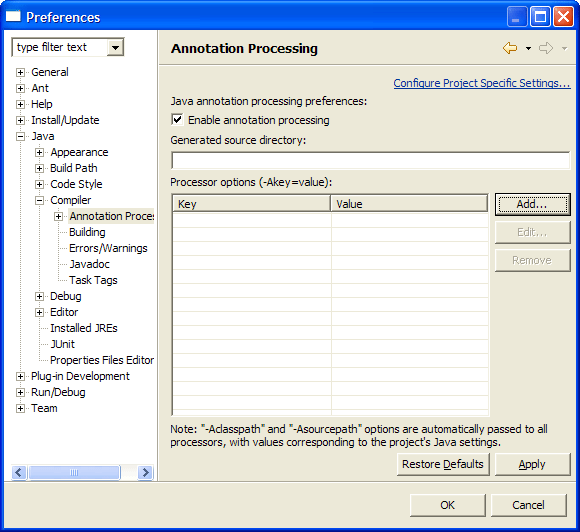
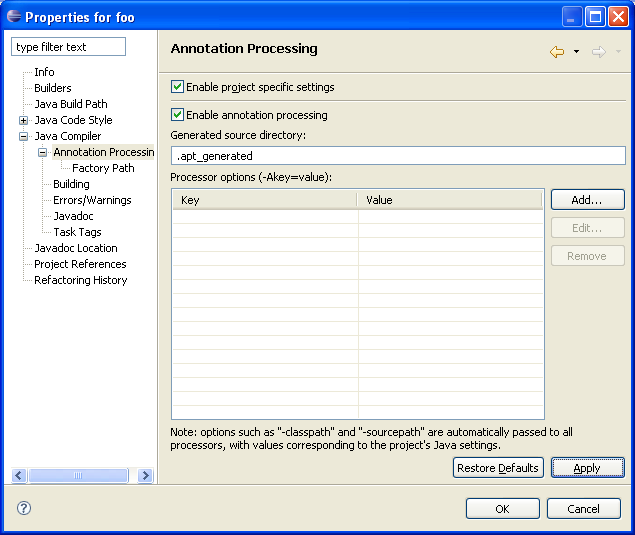
bug 136498: make it easier for users to enable APT via the UI.  Remove workspace pref panes, fix help, automatically check "enable APT".

Changed region(s): [[0.0, 0.0, 1.0, 0.9925], [0.869, 0.0, 1.0, 0.0602]]

diff --git a/bundles/org.eclipse.jdt.doc.user/reference/ref-apt-config.htm b/bundles/org.eclipse.jdt.doc.user/reference/ref-apt-config.htm
@@ -11,11 +11,20 @@
     <h1>
       Annotation Processing
     </h1>
-    <p>Annotation processors can generate additional Java code or other files, and produce problem markers,
+    <p>Annotation processors are utility programs that can generate additional Java code or other files, 
+    and produce problem markers,
     based on Java 5 (JSR-175) annotations.  The Annotation Processing preference pane permits configuration 
     of preferences that apply to all processors in a project or workspace.  The <a href="ref-apt-factoryPath.htm">
     Factory Path preference pane</a> specifies which processors are enabled and permits configuration of 
     individual processors.
+    <h2>
+        Enable annotation processing
+    </h2>
+    <p>Annotation processing is turned off by default, and must be turned on by checking this checkbox
+    for each project that needs it.  It is only necessary to enable annotation processing in a project
+    in order to have annotation processors operate on that project's code.  The mere presence of 
+    annotations in code does not mean that annotation processing is required; for example, the 
+    <code>@Deprecated</code> and <code>@Override</code> annotations do not typically require processing. 
     <h2>
     	Generated source directory
     </h2>

diff --git a/bundles/org.eclipse.jdt.doc.user/reference/ref-apt-factoryPath.htm b/bundles/org.eclipse.jdt.doc.user/reference/ref-apt-factoryPath.htm
@@ -15,7 +15,8 @@
     based on Java 5 (JSR-175) annotations.  The <a href="ref-apt-config.htm">Annotation Processing preference
     pane</a> permits configuration of preferences that apply to all processors in a project or workspace.  
     The Factory Path preference pane specifies which processors are enabled and permits configuration of 
-    individual processors.
+    individual processors. <i>Settings in the Factory Path preference pane will only have an effect if
+    annotation processing is enabled in the Annotation Processing preference pane.</i>
     <p>The pane displays a list of all the plugins and jar files that contain annotation processors that
     may be applied to the project.  To add or remove jar files from the list, use the corresponding buttons.
     Jar files may be specified by absolute path using the Add External Jars... button, or by path relative
